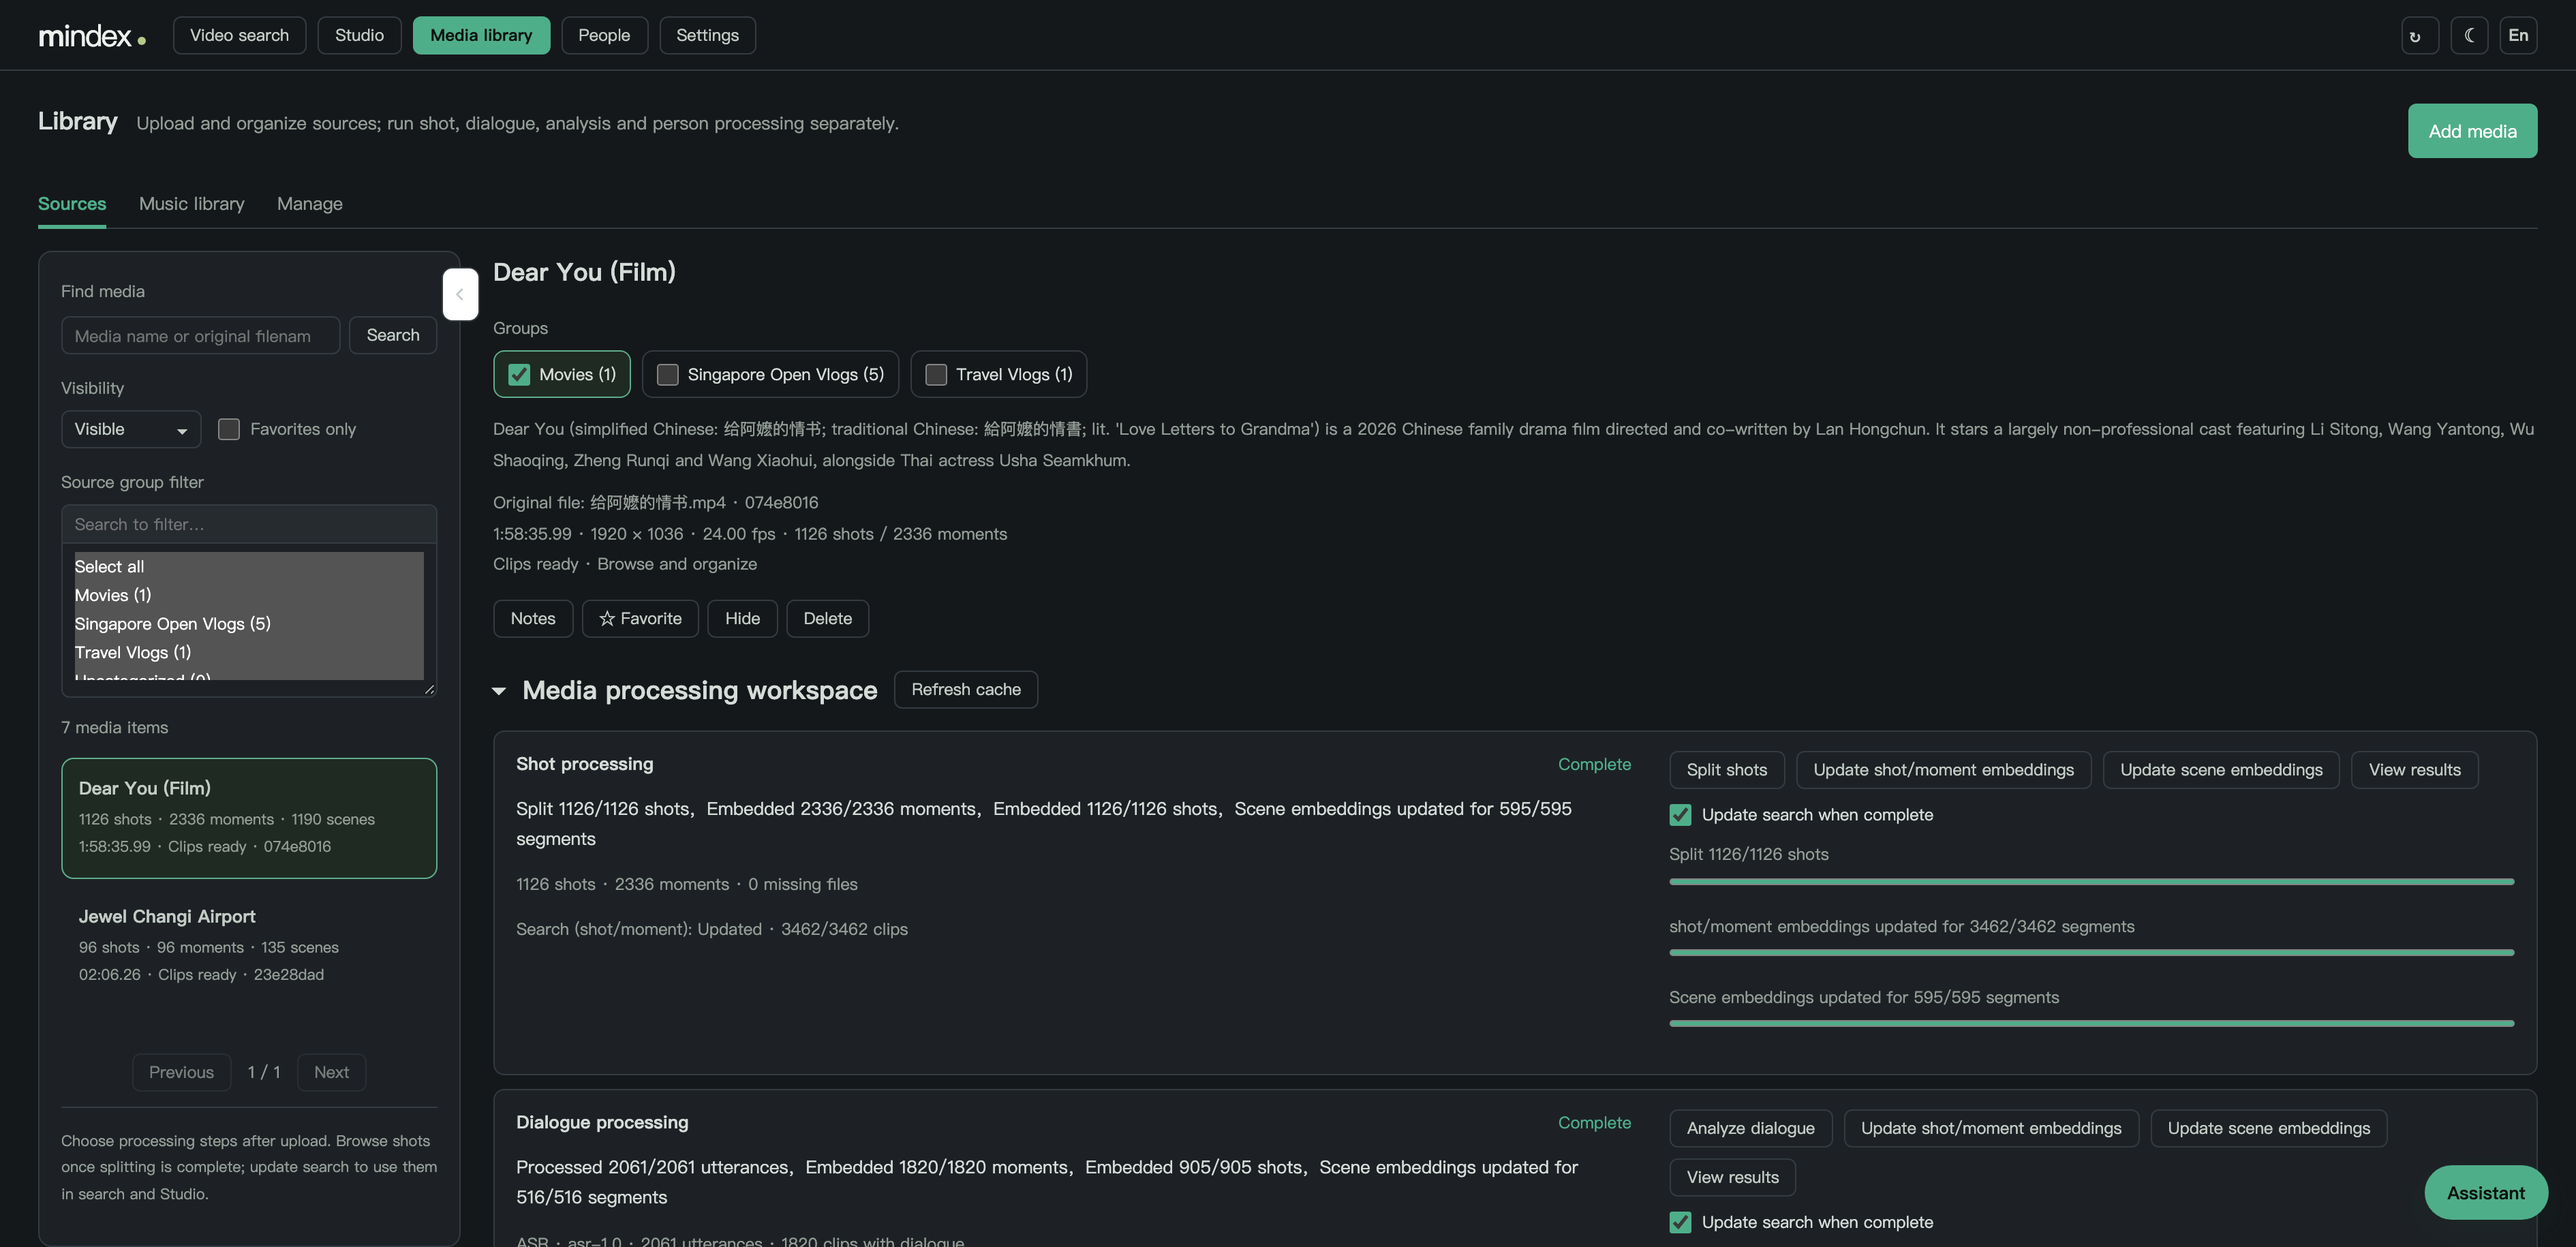
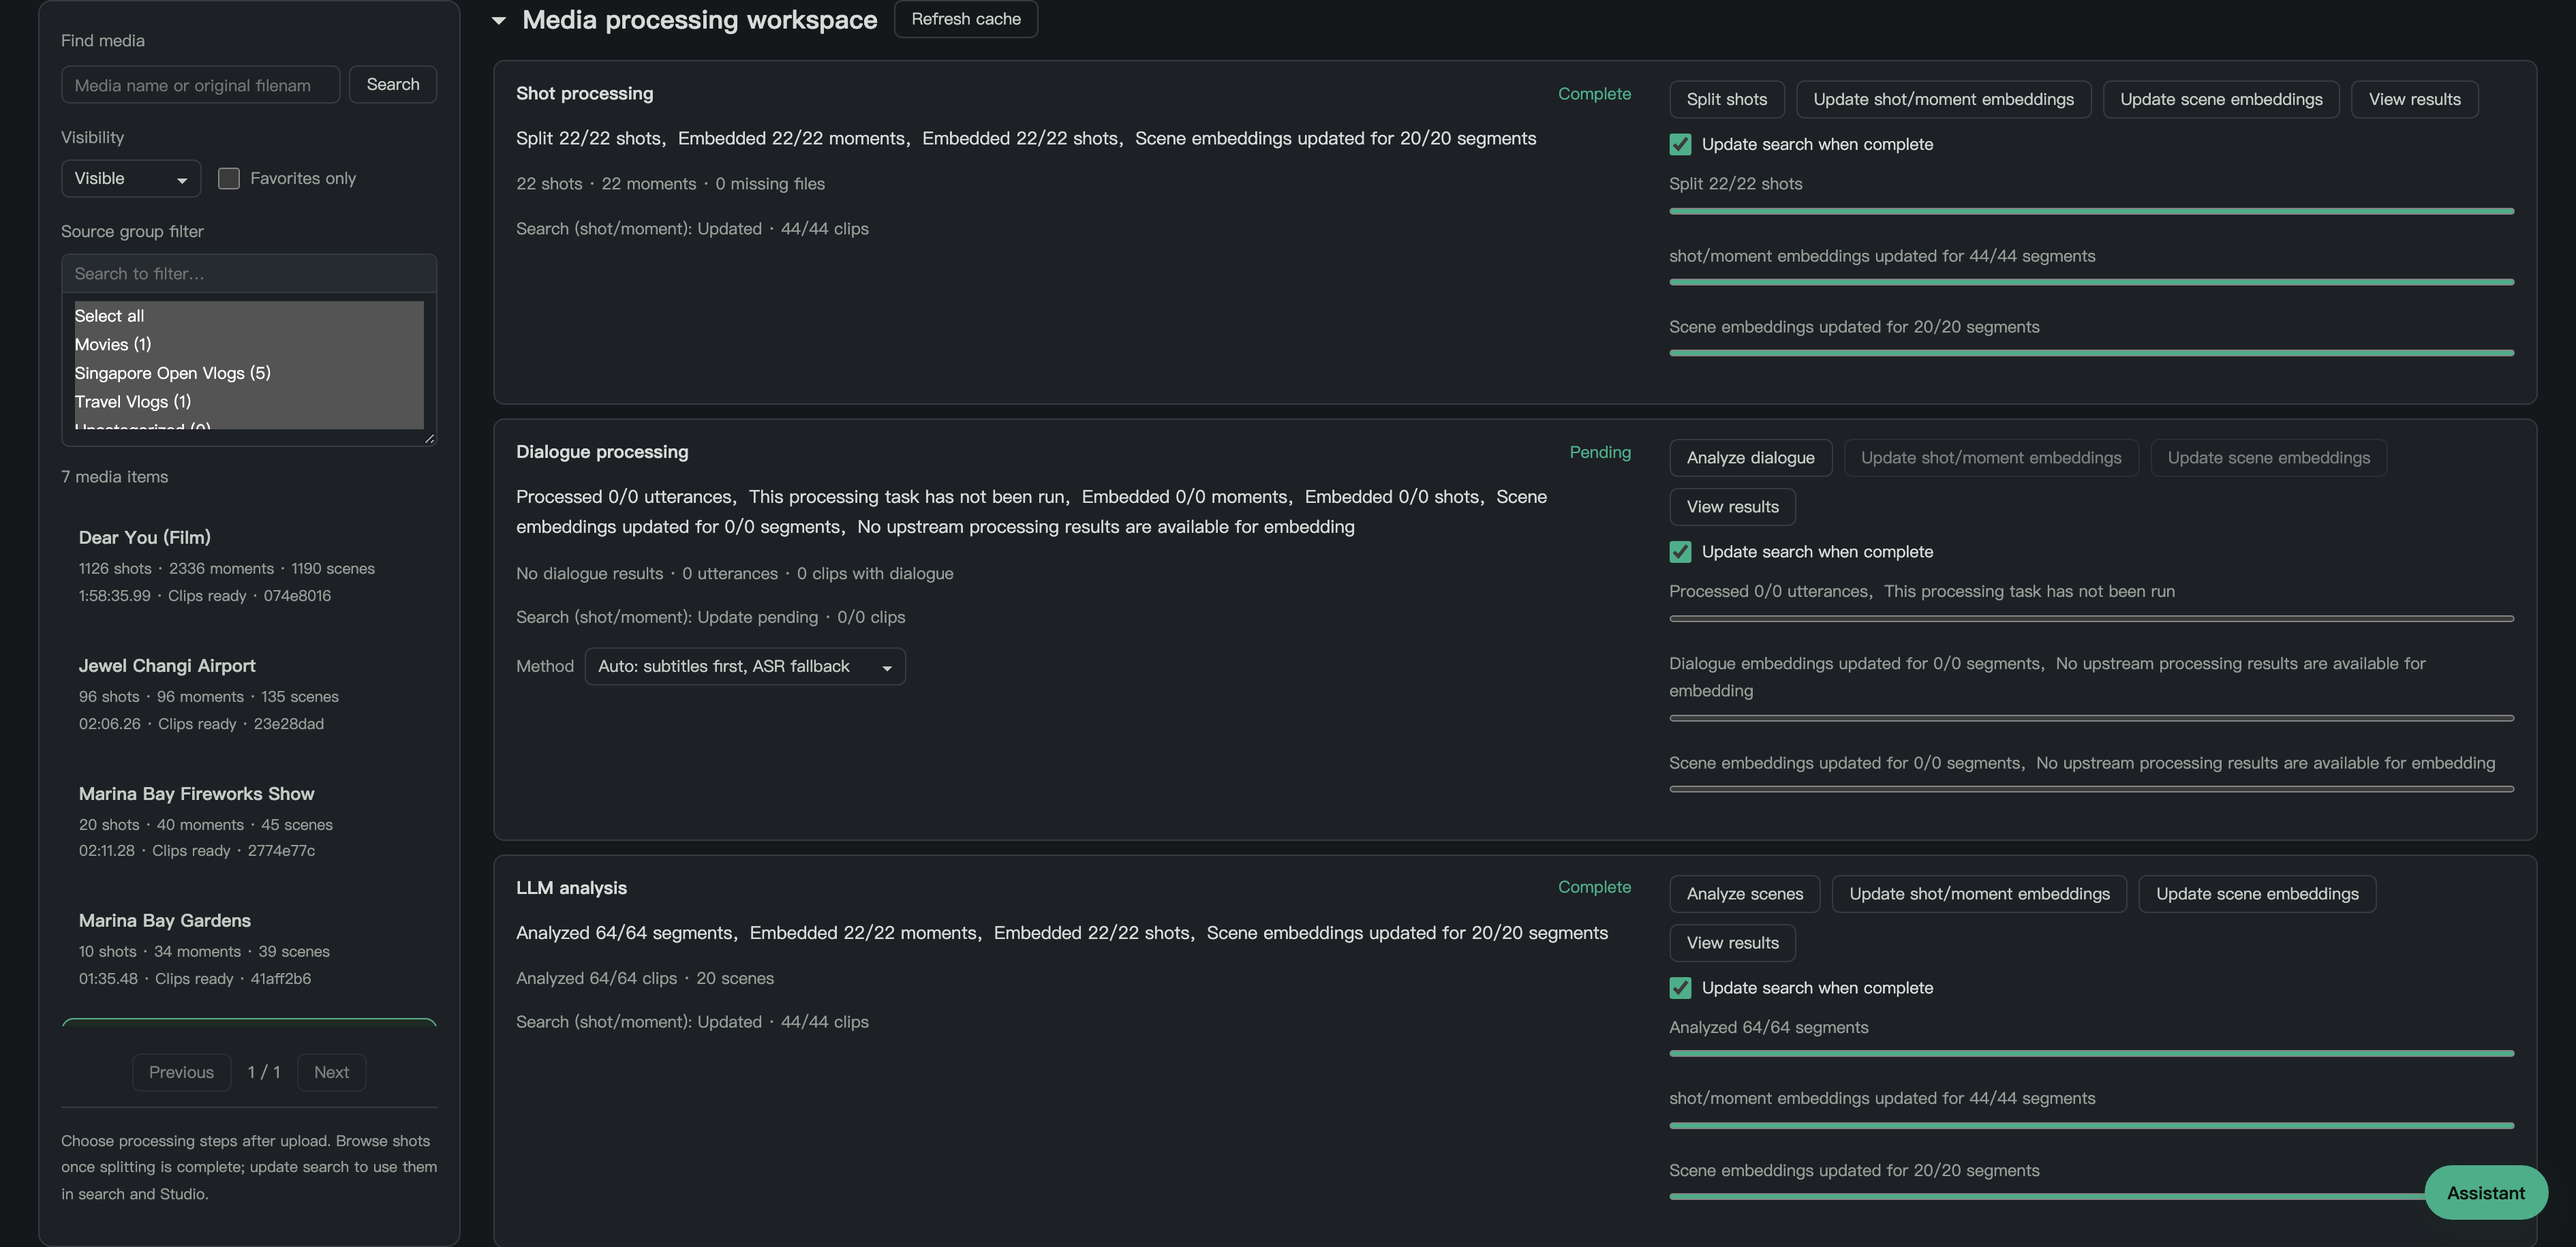
docs: admin-shots 改为分镜网格视图；Agent 检索片段图替换为合并分镜场景
- admin-shots：右侧滚到 Media processing workspace 之下，展示分镜缩略图网格
- 删除 agent-search-clips.png，新增 agent-merge-shots.png：右侧抽屉展示
  “将分镜1和2合并”指令，左侧展示合并后第一个分镜的召回详情
- 双 README、gallery 分组标题与 gallery-agent.gif 同步更新

diff --git a/scripts/build-readme-gallery.py b/scripts/build-readme-gallery.py
@@ -102,8 +102,8 @@ GROUPS: tuple[Group, ...] = (
     ),
     Group(
         key="agent",
-        zh="Agent 会话：文案、逐镜生产、成片预览与片段检索",
-        en="Agent session: scripting, production, build preview, clip retrieval",
+        zh="Agent 会话：文案、逐镜生产、成片预览与分镜合并",
+        en="Agent session: scripting, production, build preview, shot merging",
         frames=(
             Frame("agent-create-video-2.png", "Agent 会话：写文案并拆分镜", "Agent session: scripting and storyboard"),
             Frame(
@@ -116,7 +116,7 @@ GROUPS: tuple[Group, ...] = (
                 "Agent 会话：最终构建与成片预览",
                 "Agent session: final build with video preview",
             ),
-            Frame("agent-search-clips.png", "Agent 检索特定视频片段", "Agent retrieving specific video clips"),
+            Frame("agent-merge-shots.png", "Agent 会话：合并分镜 1+2", "Agent session: merging shots 1 and 2"),
         ),
     ),
     Group(

diff --git a/README.md b/README.md
@@ -210,19 +210,19 @@ The agent panel is available on every page. It drives search, library curation, 
 
 </details>
 
-The session above continues through scripting, per-shot production, and the final build; clip retrieval works the same way.
+The session above continues through scripting, per-shot production, and the final build; later requests (e.g. merging shots) reuse the same session.
 
 <details>
-<summary>Agent session through scripting, per-shot production, final build, and clip retrieval — 4 screenshots, auto-playing</summary>
+<summary>Agent session through scripting, per-shot production, final build, and shot merging — 4 screenshots, auto-playing</summary>
 
-![Auto-playing screenshots: agent session through scripting, per-shot production, final build, and clip retrieval](docs/assets/gallery-agent.gif)
+![Auto-playing screenshots: agent session through scripting, per-shot production, final build, and shot merging](docs/assets/gallery-agent.gif)
 
 Full-size images:
 
 1. [Agent session: scripting and storyboard](docs/assets/agent-create-video-2.png)
 2. [Agent session: per-shot production and narration](docs/assets/agent-create-video-3.png)
 3. [Agent session: final build with video preview](docs/assets/agent-create-video-4.png)
-4. [Agent retrieving specific video clips](docs/assets/agent-search-clips.png)
+4. [Agent session: merging shots 1 and 2](docs/assets/agent-merge-shots.png)
 
 </details>
 

diff --git a/docs/assets/README.md b/docs/assets/README.md
@@ -42,7 +42,7 @@ python scripts/build-readme-gallery.py --format webp  # 体积优先时可改用
 | `agent-create-video-2.png` | 4.2-使用Agent自动从素材库制作视频2.png |
 | `agent-create-video-3.png` | 4.3-使用Agent自动从素材库制作视频3.png |
 | `agent-create-video-4.png` | 4.4-使用Agent自动从素材库制作视频4.png |
-| `agent-search-clips.png` | 4.5-使用Agent检索特定视频片段.png |
+| `agent-merge-shots.png` | 无原版对应（替代 4.5-使用Agent检索特定视频片段.png，展示合并分镜指令） |
 | `settings-models-harness.png` | 5.1-模型与harness设置.png |
 | `settings-model-card.png` | 5.2-自定义模型卡片.png |
 | `settings-model-config.png` | 5.3-自定义模型配置.png |
